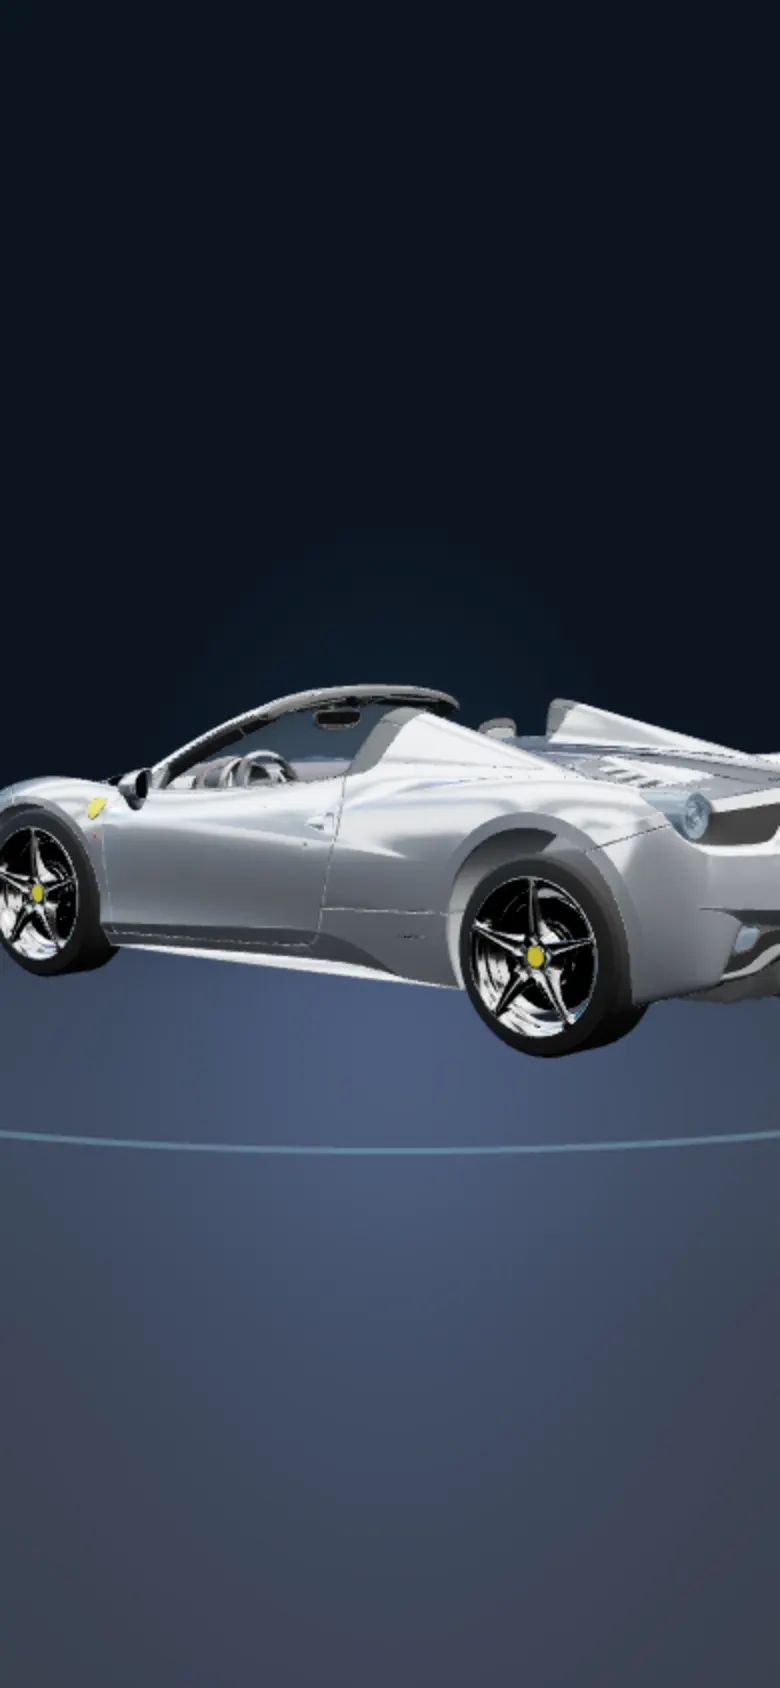
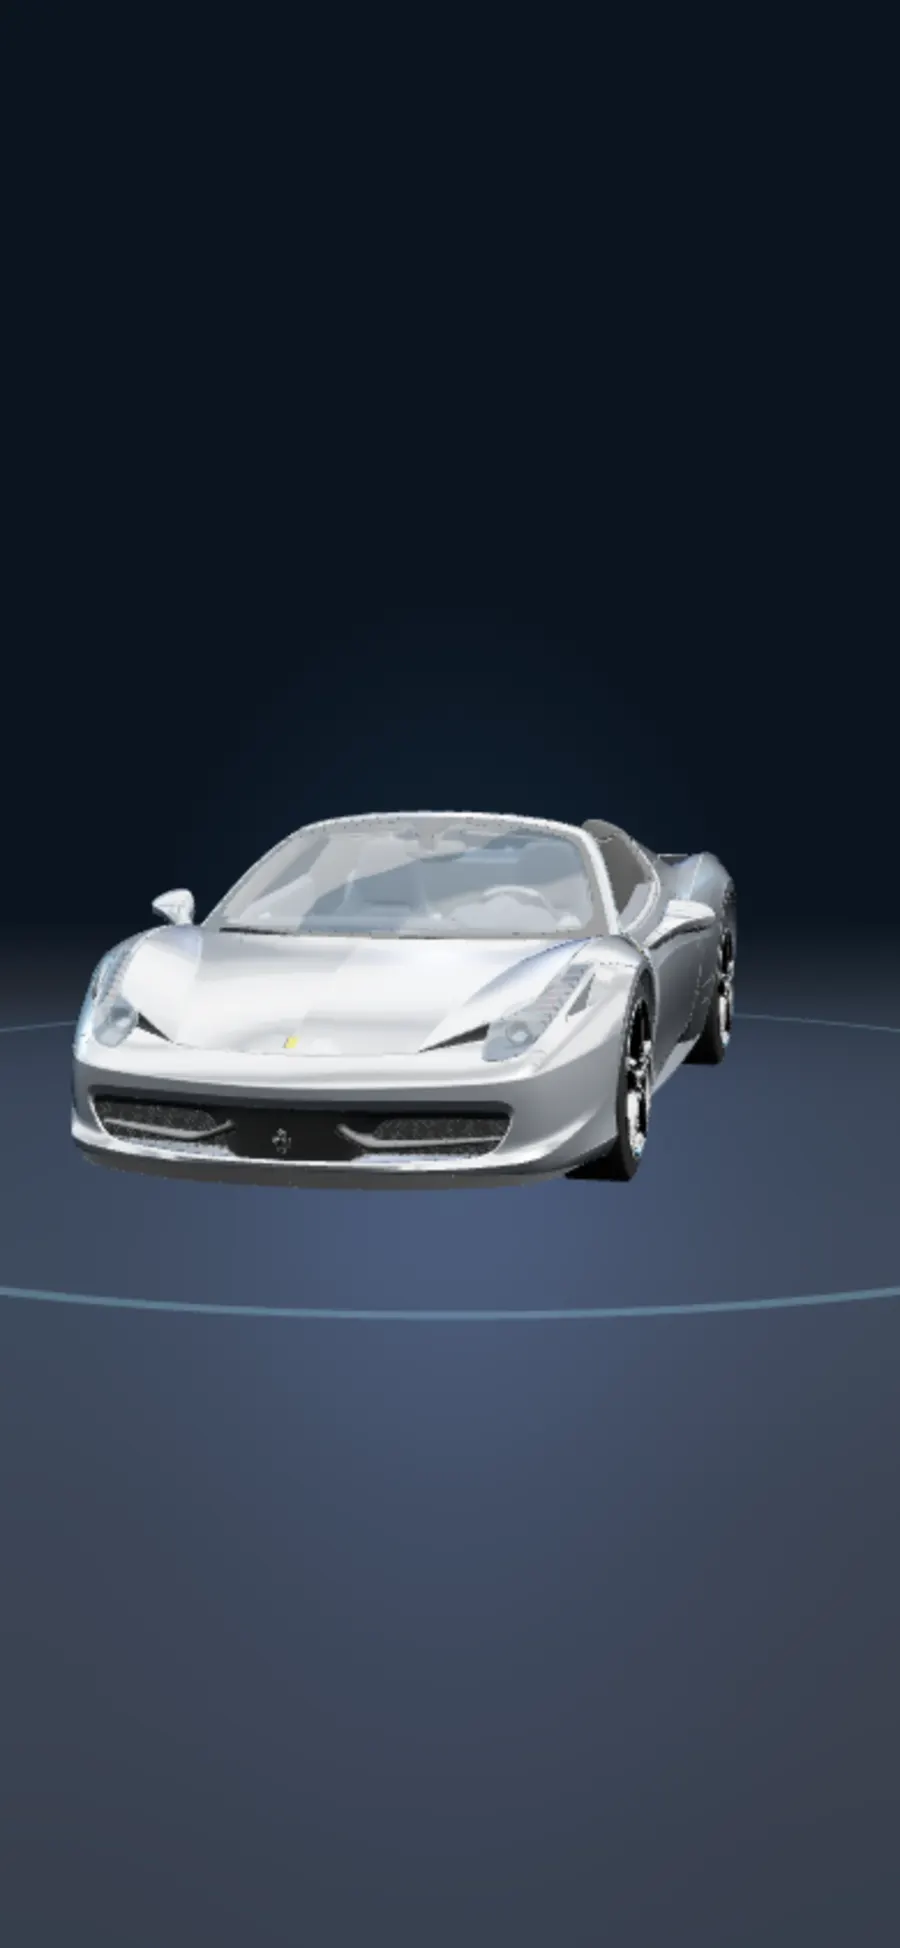
Front three-quarter opening view, portrait-safe framing on mobile

Changed region(s): [[0.0, 0.4005, 1.0, 0.7085]]

diff --git a/app/hero-3d.tsx b/app/hero-3d.tsx
@@ -68,15 +68,15 @@ function Car({ progress, paint, mouse, mobile, onReady }: { progress: MotionValu
     frames.current += 1;
     if (readyAt.current === null && frames.current >= 2) { readyAt.current = state.clock.elapsedTime; onReady(); }
     const idle = readyAt.current === null || posterMode.current ? 0 : Math.max(0, state.clock.elapsedTime - readyAt.current - 2) * 0.12 * (1 - Math.min(p * 3, 1));
-    const targetRot = 0.85 + p * TAU + idle + mouse.current.x * 0.08;
+    const targetRot = (mobile ? 2.9 : 2.5) + p * TAU + idle + mouse.current.x * 0.08;
     if (!settled.current) { g.rotation.y = targetRot; settled.current = true; }
     g.rotation.y += (targetRot - g.rotation.y) * Math.min(1, dt * 6);
     (window as unknown as { __h3d?: unknown }).__h3d = { p: +p.toFixed(3), rot: +g.rotation.y.toFixed(3), idle: +idle.toFixed(3) };
     g.position.y = Math.sin(state.clock.elapsedTime * 0.8) * 0.015;
     const cam = state.camera as THREE.PerspectiveCamera;
-    const fov = mobile ? 40 : 30;
+    const fov = mobile ? 48 : 30;
     if (cam.fov !== fov) { cam.fov = fov; cam.updateProjectionMatrix(); }
-    const z = mobile ? 9.4 - p * 0.8 : 7.5 - p * 0.9;
+    const z = mobile ? 8.6 - p * 0.7 : 7.5 - p * 0.9;
     const y = 1.55 - p * 0.2 + mouse.current.y * -0.12;
     cam.position.x += ((mobile ? 0 : 0.6) + mouse.current.x * 0.35 - cam.position.x) * Math.min(1, dt * 3);
     cam.position.y += (y - cam.position.y) * Math.min(1, dt * 3);
